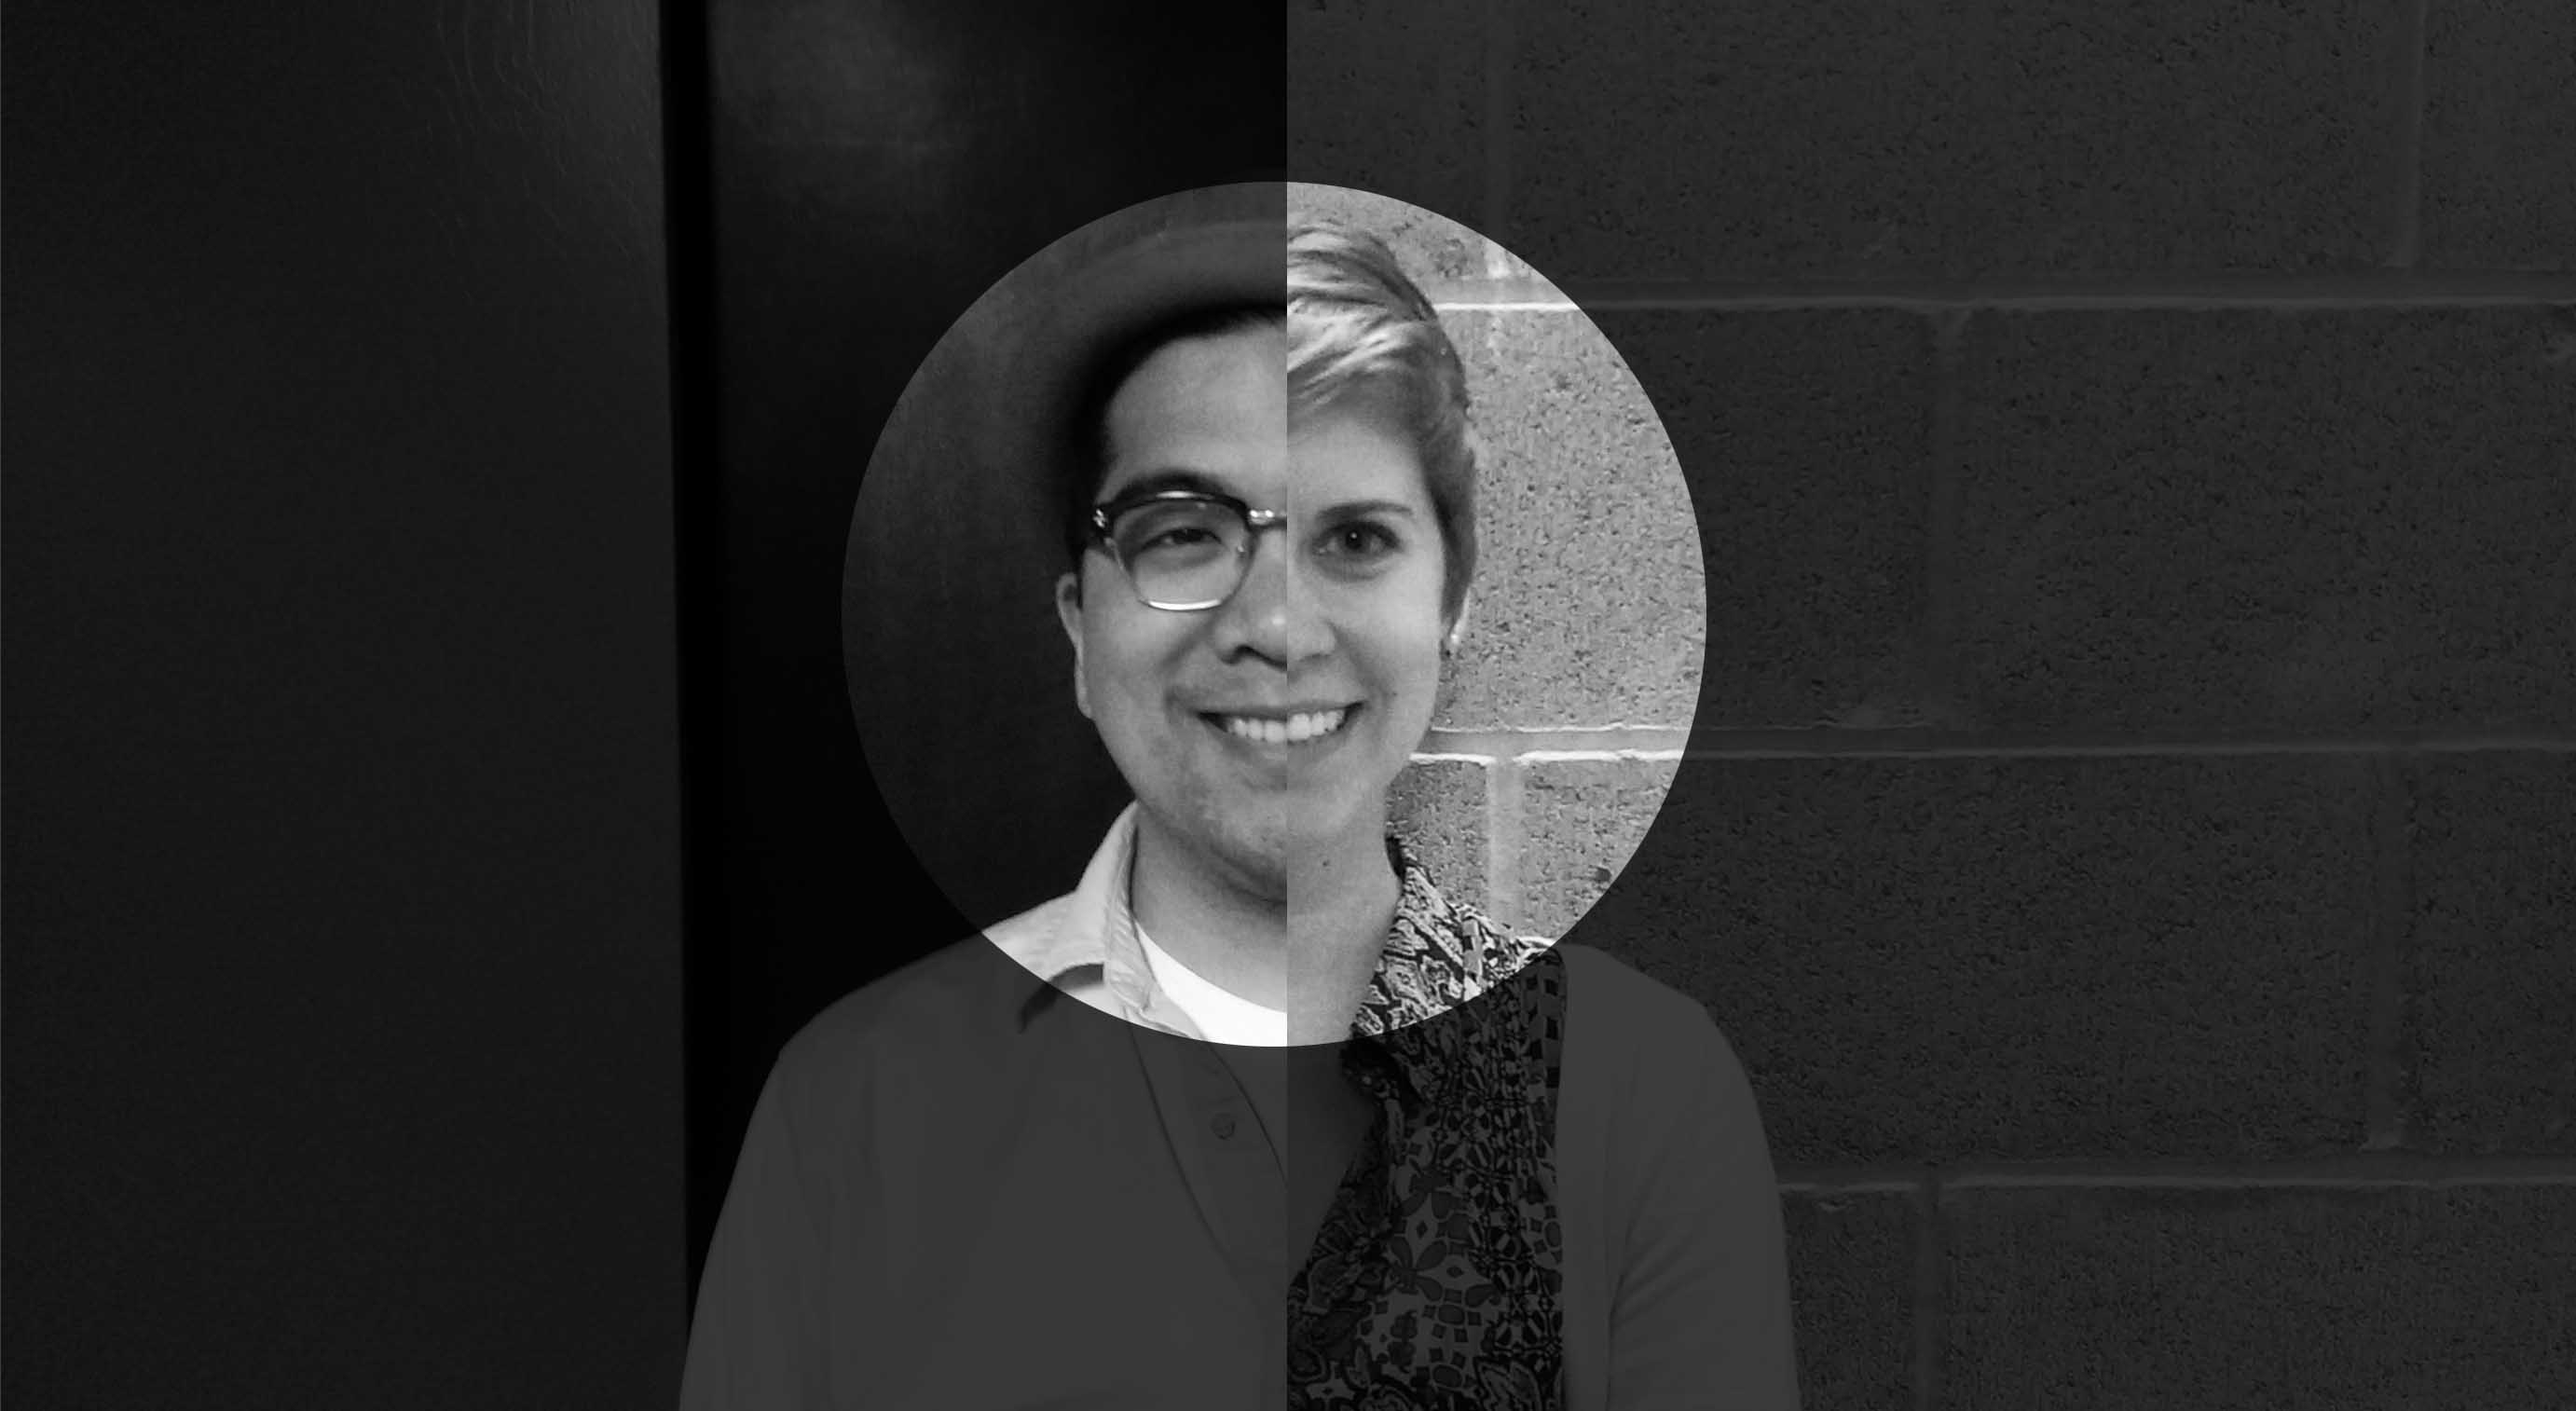
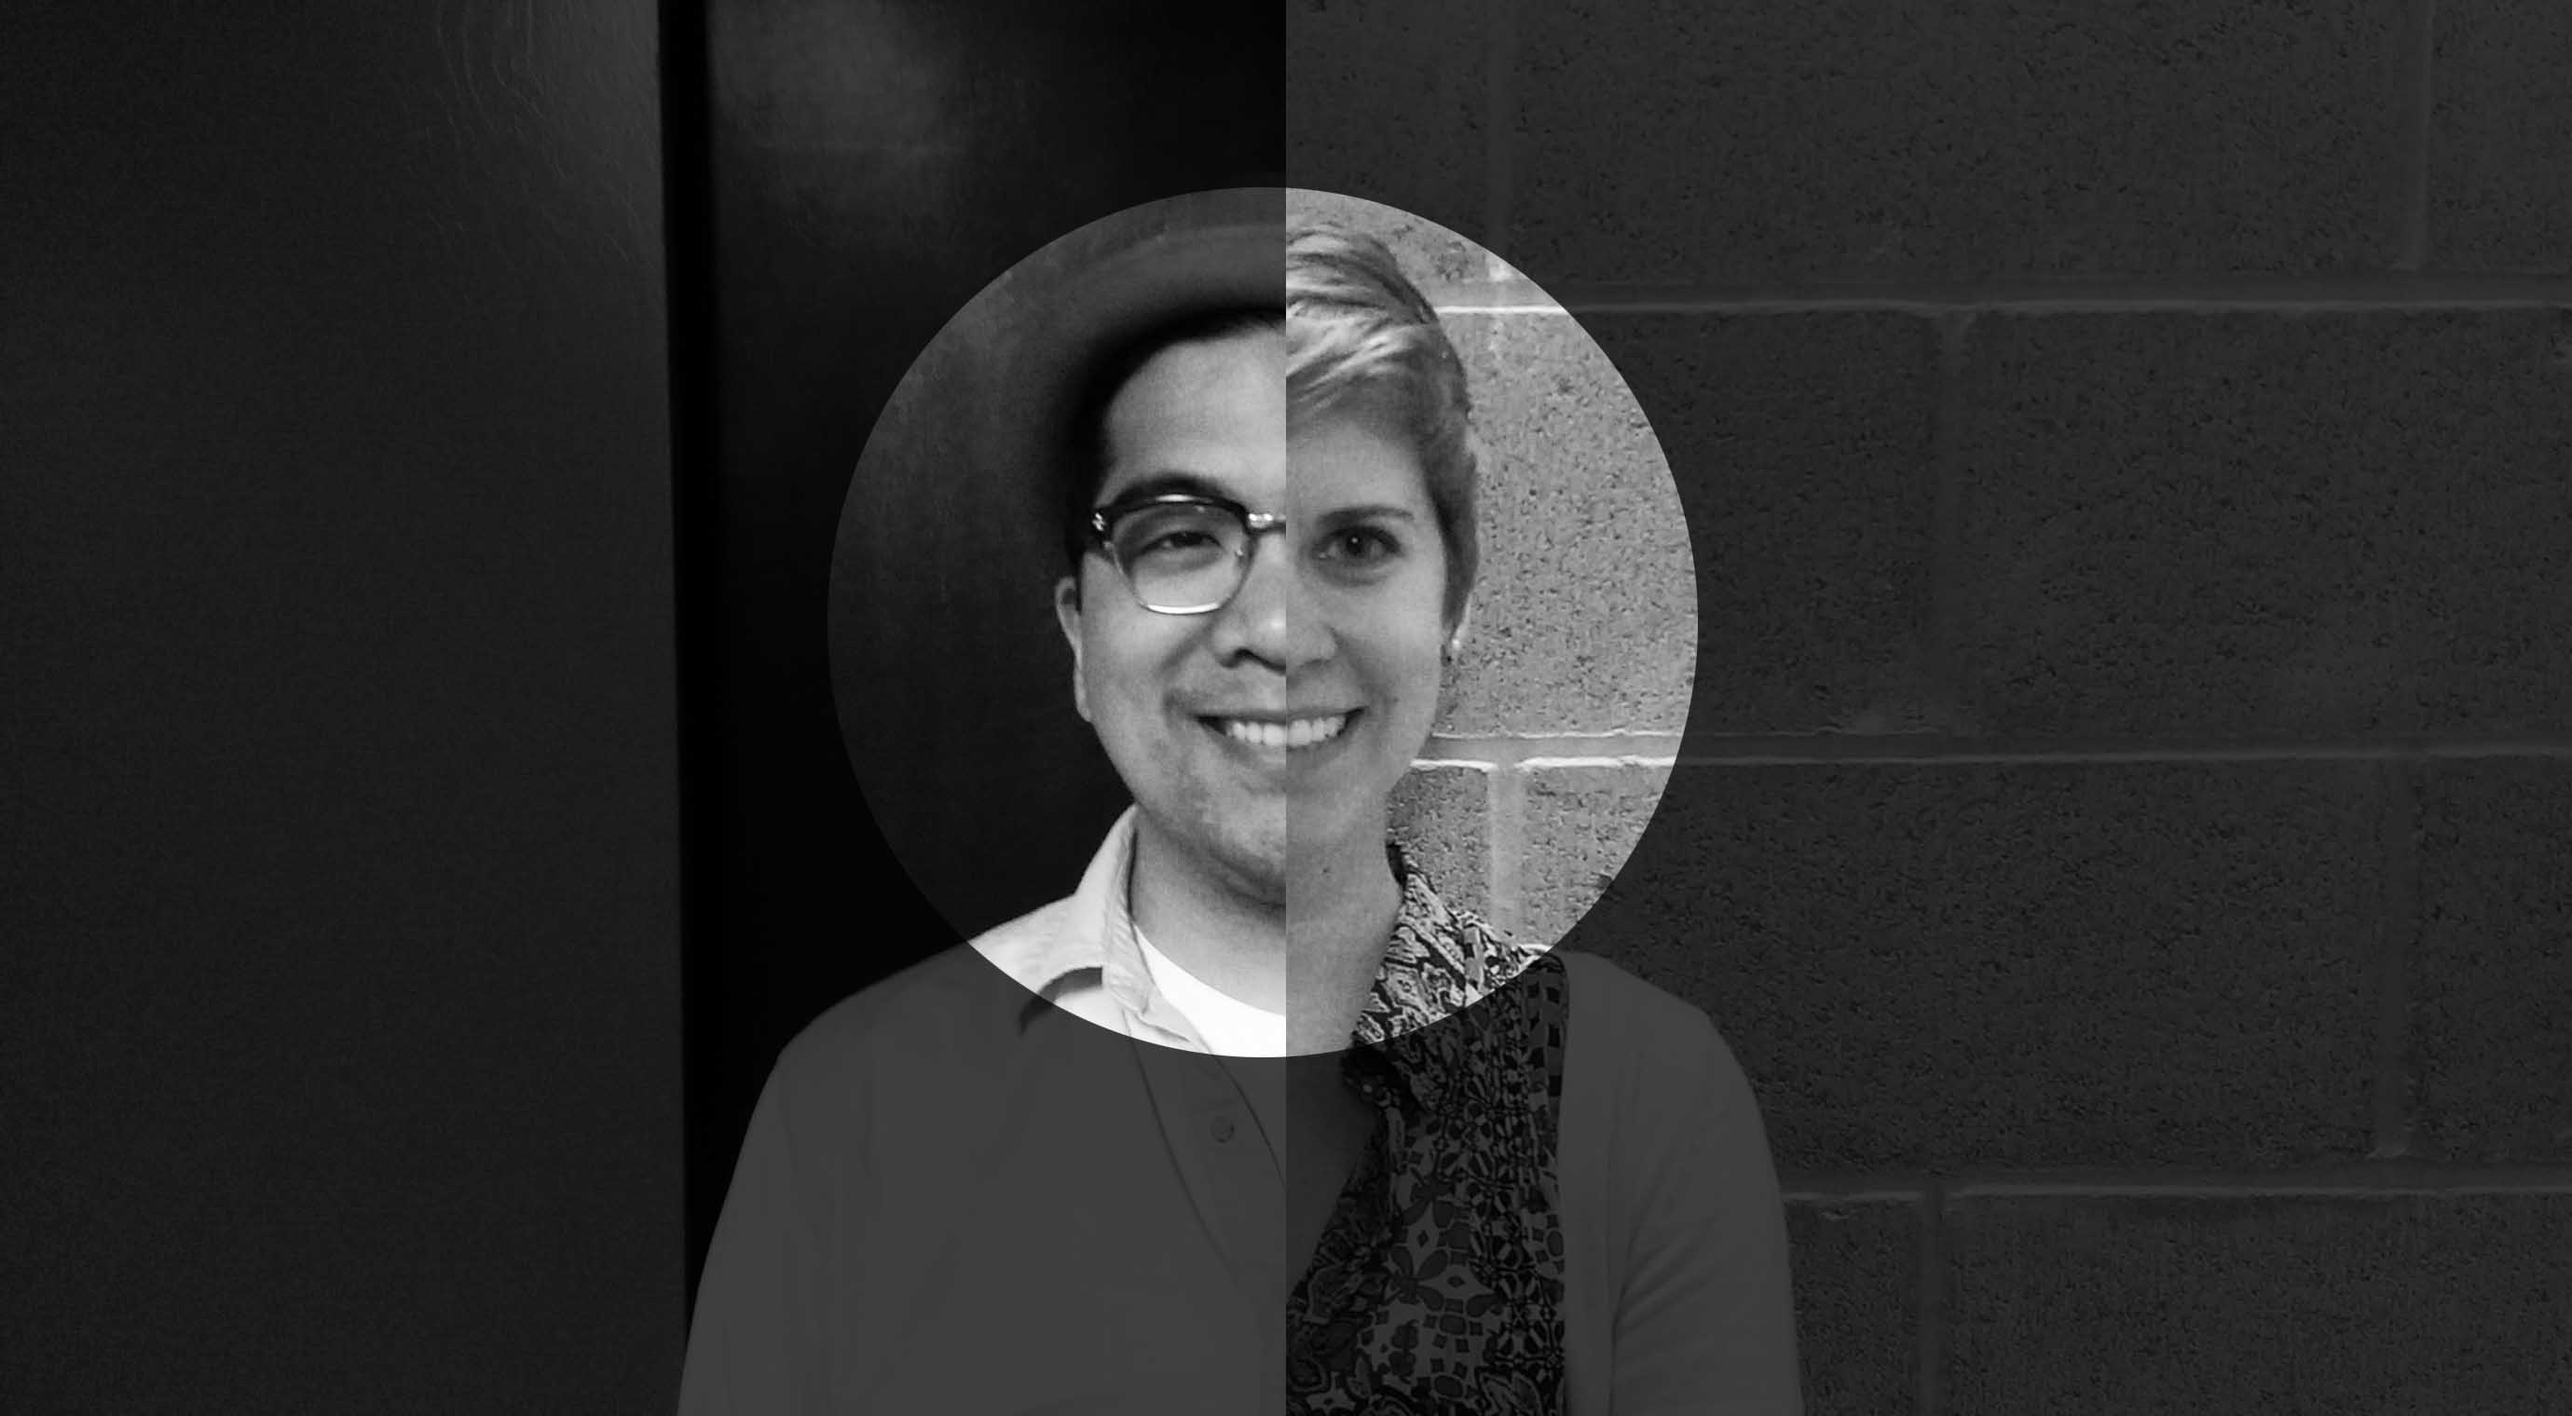
resolve merge conflicts in button stylesheets. Replace splash background image.

diff --git a/app/assets/stylesheets/buttons/_button_states.scss b/app/assets/stylesheets/buttons/_button_states.scss
@@ -1,4 +1,3 @@
-<<<<<<< HEAD
 .trans_wht_btn:hover {
   border: none;
   background-color: $alpha_light50;
@@ -11,17 +10,16 @@
   -ms-transform: scale(1.2); /* IE 9 */
   -webkit-transform: scale(1.2); /* Chrome, Safari, Opera */
   transform: scale(1.2);
-=======
+}
+
 .trans_wht_btn::hover {
   border: none;
   background-color: $alpha_light50;
   color: $delta;
->>>>>>> 4c4837fce7eedcb5ef5038a474928ace02a905dd
 }
 
 .trans_wht_btn::active {
   background-color: $charlie;
-<<<<<<< HEAD
 }
 
 .wht_red_btn:hover, .btn_text_red:hover {
@@ -34,6 +32,4 @@
   -ms-transform: scale(1.2); /* IE 9 */
   -webkit-transform: scale(1.2); /* Chrome, Safari, Opera */
   transform: scale(1.2);
-=======
->>>>>>> 4c4837fce7eedcb5ef5038a474928ace02a905dd
 }

diff --git a/app/assets/stylesheets/typography/_base_typography.scss b/app/assets/stylesheets/typography/_base_typography.scss
@@ -1,10 +1,6 @@
 $title-font: 'Forza';
 $header-font:  'Montserrat';
-<<<<<<< HEAD
 $body-font: 'Merriweather';
-=======
-$body-font: 'Mercury';
->>>>>>> 4c4837fce7eedcb5ef5038a474928ace02a905dd
 
 h1 {
   font-family: $title-font;
@@ -24,11 +20,8 @@ h3, p {
   color: $delta;
 }
 
-<<<<<<< HEAD
 h3 {
   font-style: italic;
 }
 
-=======
->>>>>>> 4c4837fce7eedcb5ef5038a474928ace02a905dd
 

diff --git a/app/assets/stylesheets/_reset.scss b/app/assets/stylesheets/_reset.scss
@@ -422,7 +422,6 @@ table {
 td,
 th {
   padding: 0;
-<<<<<<< HEAD
 }
 
 // remove margin from text elements
@@ -433,6 +432,4 @@ h1, h2, h3, h4, h5, h6, p {
 //remove text-decoration from links
 a {
   text-decoration: none;
-=======
->>>>>>> 4c4837fce7eedcb5ef5038a474928ace02a905dd
 }

diff --git a/app/assets/stylesheets/buttons/_modules_buttons.scss b/app/assets/stylesheets/buttons/_modules_buttons.scss
@@ -1,13 +1,10 @@
 .trans_wht_btn {
   border: 2px solid white;
   background-color: transparent;
-<<<<<<< HEAD
 }
 
 .wht_red_btn {
 border: none;
 background-color: $delta_light10;
 color: $charlie;
-=======
->>>>>>> 4c4837fce7eedcb5ef5038a474928ace02a905dd
 }

diff --git a/app/assets/stylesheets/buttons/_buttons.scss b/app/assets/stylesheets/buttons/_buttons.scss
@@ -1,9 +1,6 @@
 @import "base_buttons";
 @import "modules_buttons";
-<<<<<<< HEAD
 @import "button_states";
 @import "button_typography";
 @import "placeholders";
-=======
 @import "button_states";
->>>>>>> 4c4837fce7eedcb5ef5038a474928ace02a905dd

diff --git a/app/assets/stylesheets/buttons/_base_buttons.scss b/app/assets/stylesheets/buttons/_base_buttons.scss
@@ -1,9 +1,6 @@
 button {
-<<<<<<< HEAD
   width: 15vw;
-=======
   width: 12em;
->>>>>>> 4c4837fce7eedcb5ef5038a474928ace02a905dd
   height: 3em;
   border-radius: 5px;
   padding: .25em;

diff --git a/app/assets/stylesheets/modules/new_user/_new.scss b/app/assets/stylesheets/modules/new_user/_new.scss
@@ -1,7 +1,6 @@
 body.new {
   background: $alpha;
   display: flex;
-  justify-content: center;
 }
 
 .new h2, label, input {

diff --git a/app/assets/stylesheets/application.css.scss b/app/assets/stylesheets/application.css.scss
@@ -9,3 +9,4 @@
 @import "modules/modules";
 @import "buttons/buttons";
 @import "vendors/vendors";
+@import "forms/forms";
